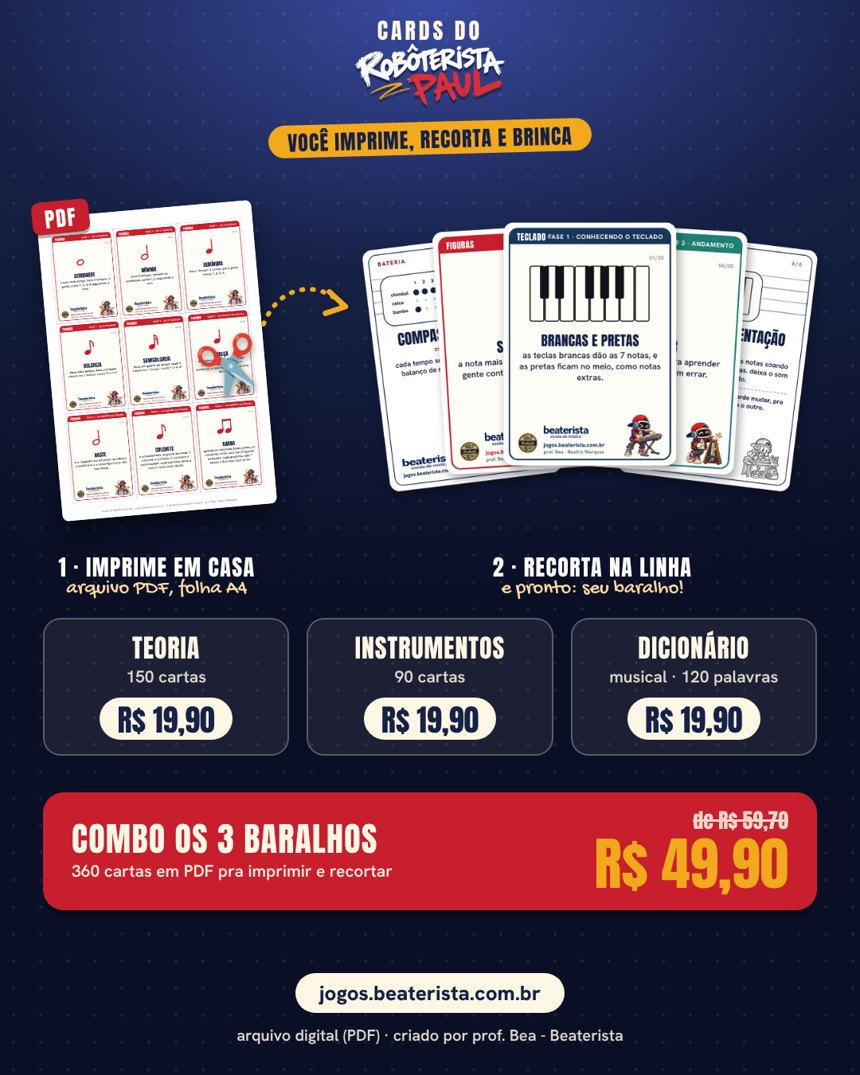
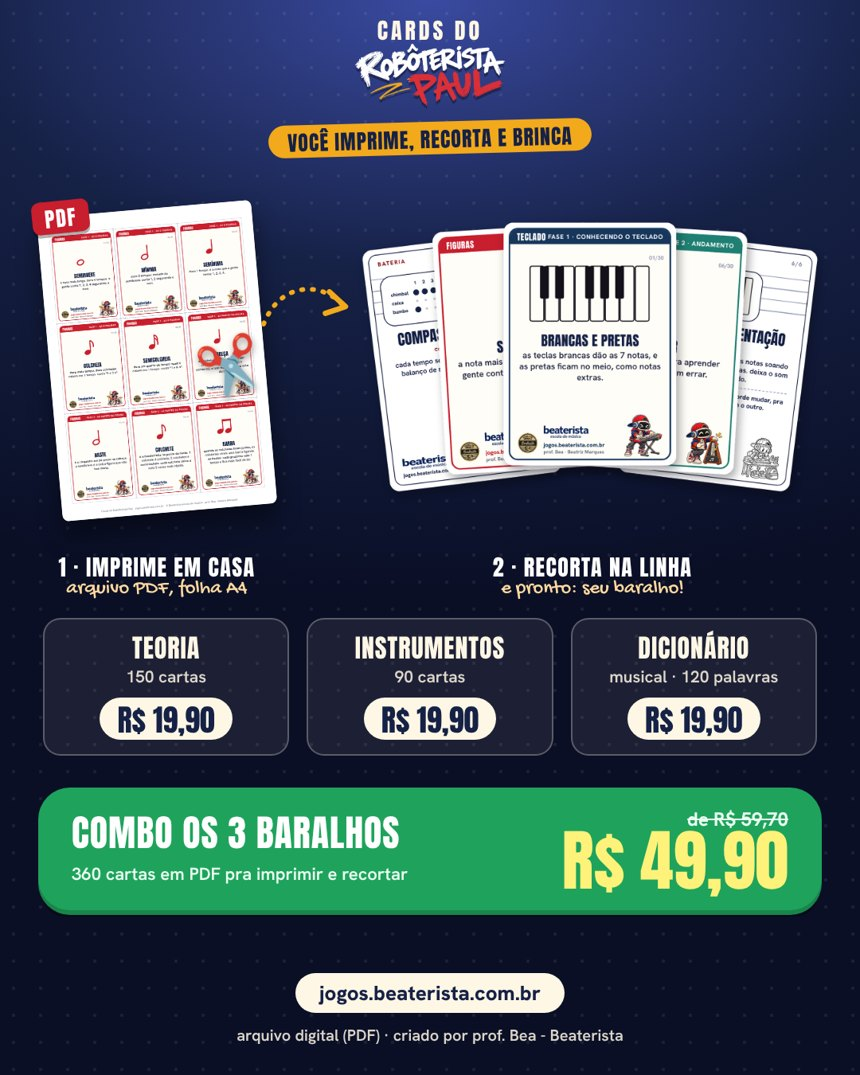
Arte dos Cards com a faixa do combo em verde; entrada usa a nova arte

Changed region(s): [[0.0302, 0.706, 0.9674, 0.8595]]

diff --git a/marketing/arte-cards-verde.html b/marketing/arte-cards-verde.html
@@ -1,0 +1,17 @@
+<!doctype html>
+<html lang="pt-BR"><head><meta charset="utf-8"><title>Arte dos Cards · combo em verde</title>
+<link rel="stylesheet" href="../css/fonts.css">
+<style>
+/* A arte de venda dos Cards do Paul (mandada pela Bea) com a faixa do combo refeita em VERDE (vermelho parece "errado/cancelar"). Fundo = a arte original em entrada-telas/cards-venda-original.png */
+*{box-sizing:border-box;margin:0}body{width:1080px;height:1350px;position:relative;overflow:hidden;background:#0d1a3a}
+img.bg{position:absolute;inset:0;width:1080px;height:1350px}
+.faixa{position:absolute;left:48px;top:989px;width:984px;height:160px;border-radius:40px;background:#1fa35c;box-shadow:inset 0 -6px 0 rgba(0,0,0,.18)}
+.t{position:absolute;left:42px;top:34px;font:400 46px/1 Anton,sans-serif;color:#fff;letter-spacing:.02em;text-transform:uppercase}
+.s{position:absolute;left:42px;top:98px;font:600 22px/1 "Hanken Grotesk",sans-serif;color:#eafff2}
+.de{position:absolute;right:42px;top:28px;font:700 24px/1 "Hanken Grotesk",sans-serif;color:#eafff2;text-decoration:line-through}
+.p{position:absolute;right:42px;top:50px;font:400 84px/1 Anton,sans-serif;color:#fff27a}
+</style></head><body>
+<img class="bg" src="entrada-telas/cards-venda-original.png" alt="">
+<div class="faixa"><div class="t">combo os 3 baralhos</div><div class="s">360 cartas em PDF pra imprimir e recortar</div><div class="de">de R$ 59,70</div><div class="p">R$ 49,90</div></div>
+<script>Promise.all([].slice.call(document.images).map(function(im){return im.complete?0:new Promise(function(ok){im.onload=im.onerror=ok;});})).then(function(){return document.fonts.ready;}).then(function(){window.__pronto=true;});</script>
+</body></html>
